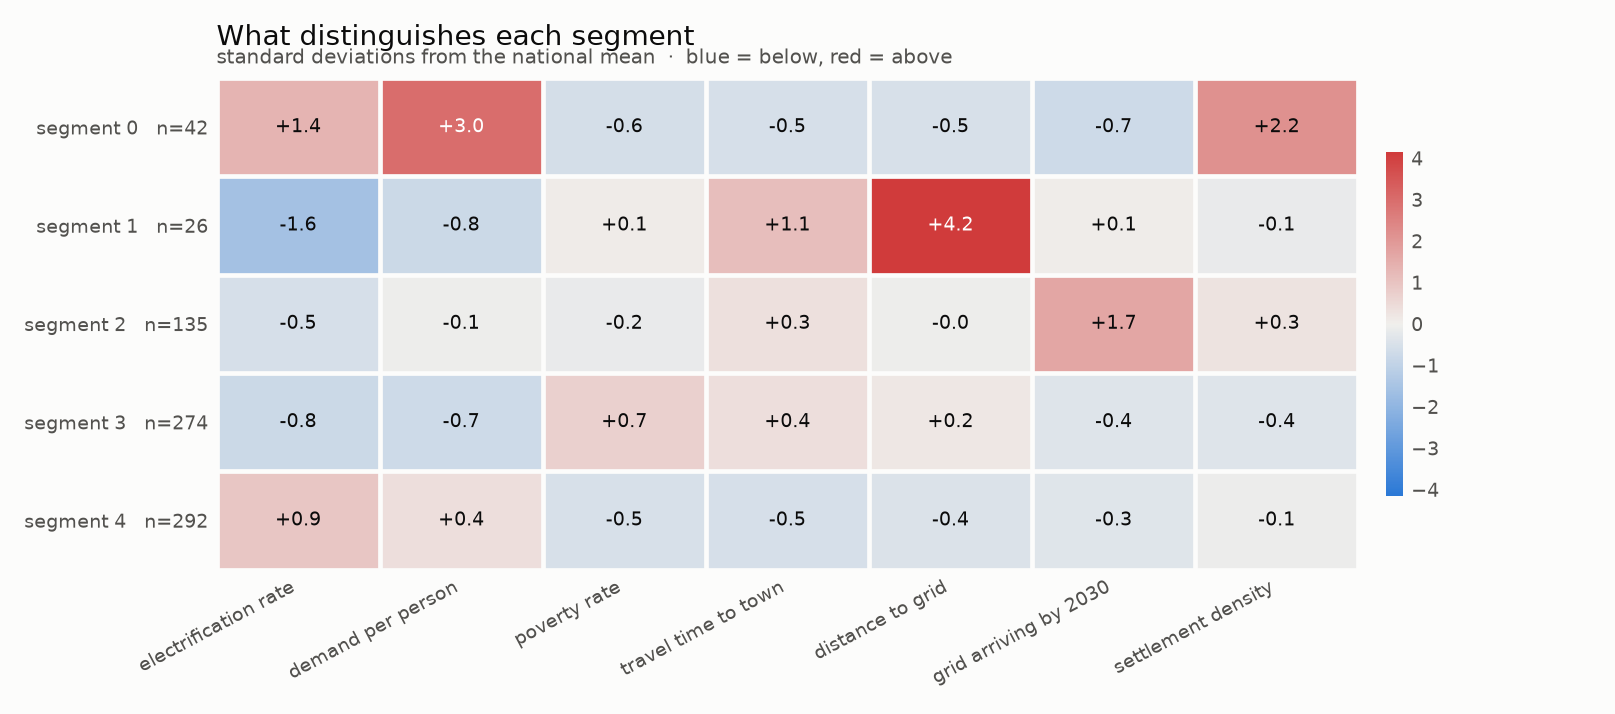
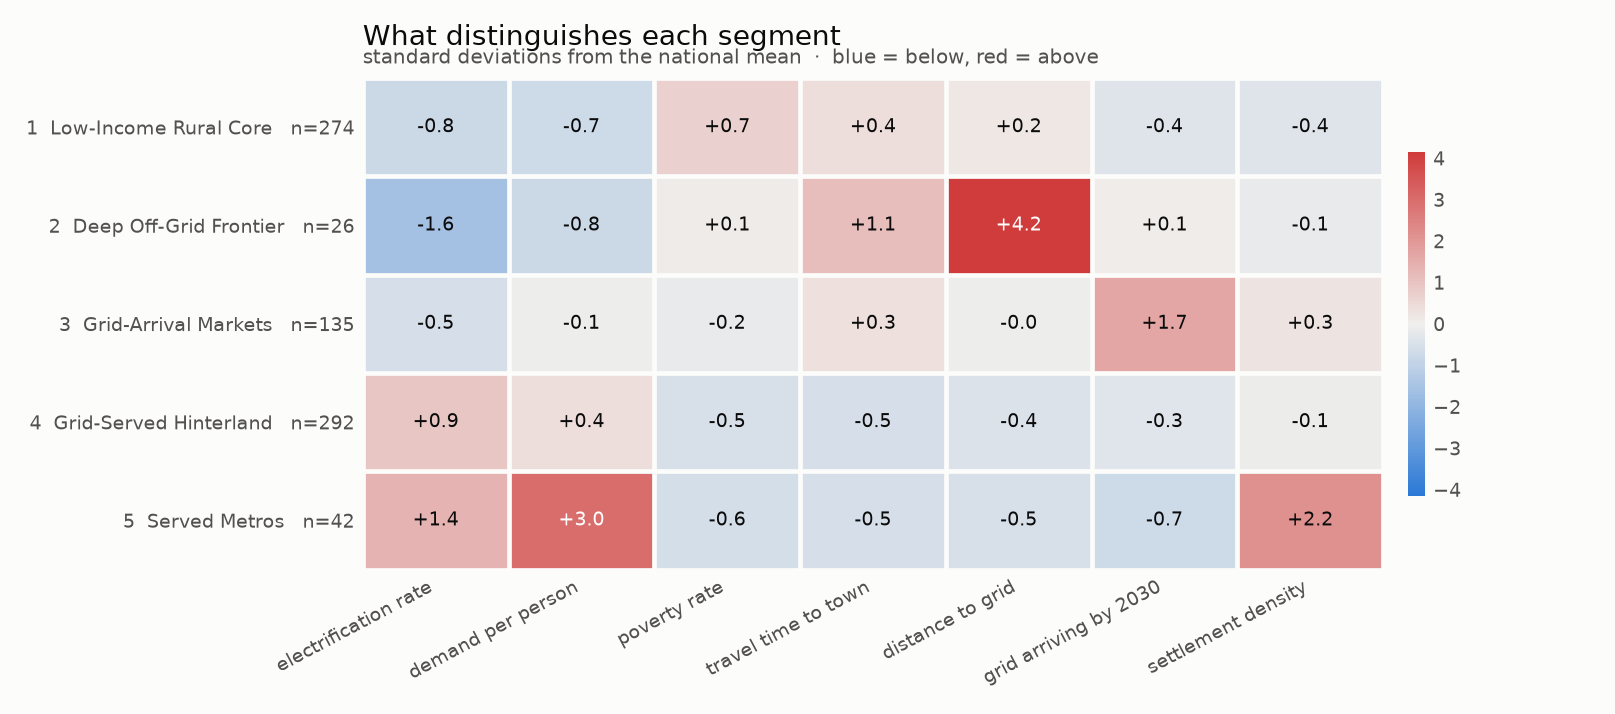
Figures read segment names from the lookup table
visualise.py now reads lga_segments_named instead of lga_segments, taking both segment_name and display_order from segment_names. No segment name and no display ordering appears anywhere in the Python; renaming a segment is a one-row change in one table followed by a re-run.

Guards added: fails with an explicit instruction if the view is missing, and refuses to draw anything if any LGA comes back unnamed rather than silently dropping it from every figure. Silhouette is still computed on seg_kmeans, not display_order, so renumbering cannot touch the geometry.

Regression check: 41 of 769 LGAs (5.3%) negative silhouette, identical to the pre-renaming run. 769 of 774 polygons matched; the 5 unmatched are the 4 no_clusters plus 1 no_cod_pop LGAs from 04_gep_quality.sql.

diff --git a/pipeline/visualise.py b/pipeline/visualise.py
@@ -4,7 +4,8 @@ Stage 2 visuals: what the five segments look like.
 Run from the project root, after pipeline/cluster.py:
     python pipeline/visualise.py
 
-Reads  : lga_segments, cluster_features, data/raw/nga_admin2.shp
+Reads  : lga_segments_named (the view built by sql/09_segment_names.sql),
+         cluster_features, data/raw/nga_admin2.shp
 Writes : reports/segment_fingerprint.png
          reports/segment_map.png
          reports/segment_scale.png
@@ -40,6 +41,20 @@ a hue there would read as a value rather than as "average".
 
 Magnitude charts use one blue ramp. No chart here encodes identity by colour
 alone; every segment is labelled.
+
+
+NUMBERING
+---------
+Nothing in this file knows what a segment is called, and nothing in it decides
+what order they come in. Both are read from `segment_names` through the
+`lga_segments_named` view, which sql/09_segment_names.sql builds. The raw
+scikit-learn labels (seg_kmeans 0-4) never appear on a figure -- they are an
+accident of centroid initialisation and mean nothing to a reader.
+
+That is the whole point of the lookup table: if a name changes, it changes in
+one row of one table, and every figure here follows on the next run. If you
+find yourself typing a segment name into this file, stop -- the table is the
+place.
 """
 
 import sqlite3
@@ -87,20 +102,48 @@ def load() -> pd.DataFrame:
     con = sqlite3.connect(DB)
     try:
         df = pd.read_sql("""
-            SELECT s.lga_pcode, s.lga_name, s.state_name, s.seg_kmeans, s.gep_flag,
+            SELECT n.lga_pcode, n.lga_name, n.state_name, n.gep_flag,
+                   n.seg_kmeans,          -- carried for traceability, never plotted
+                   n.display_order, n.segment_name, n.is_offgrid_market,
                    f.elec_rate_2020, f.demand_kwh_per_capita, f.poverty_rate,
                    f.travel_hours, f.mv_line_dist_km, f.pct_grid_new_2030,
                    f.settled_density, f.unserved_pop_2020, f.gep_pop_2020
-            FROM lga_segments s
-            JOIN cluster_features f ON f.lga_pcode = s.lga_pcode
+            FROM lga_segments_named n
+            JOIN cluster_features f ON f.lga_pcode = n.lga_pcode
         """, con)
     except Exception as exc:
-        sys.exit(f"Could not read lga_segments / cluster_features: {exc}\n"
-                 f"Run pipeline/cluster.py first.")
+        sys.exit(f"Could not read lga_segments_named / cluster_features: {exc}\n"
+                 f"\nIf the view is missing, the naming layer has not been built.\n"
+                 f"Open sql/09_segment_names.sql in DB Browser, Execute All,\n"
+                 f"then WRITE CHANGES -- the last step is the one that persists it.")
     finally:
         con.close()
-    print(f"Loaded {len(df)} LGAs in {df.seg_kmeans.nunique()} segments.")
+
+    # Every LGA must have been named. A silent left-join hole here would
+    # quietly drop LGAs from every figure, so refuse to draw anything.
+    missing = df["segment_name"].isna().sum()
+    if missing:
+        sys.exit(f"{missing} LGAs have no segment name. Re-run "
+                 f"sql/09_segment_names.sql.")
+
+    print(f"Loaded {len(df)} LGAs in {df.display_order.nunique()} segments.")
+    print("Naming read from segment_names (cluster label -> display order):")
+    for _, r in (df.drop_duplicates("display_order")
+                   .sort_values("display_order").iterrows()):
+        mark = "off-grid market" if r.is_offgrid_market else ""
+        print(f"  seg_kmeans {r.seg_kmeans}  ->  {int(r.display_order)}  "
+              f"{r.segment_name:<24} {mark}")
     return df
+
+
+def seg_labels(df) -> tuple[list, dict, dict]:
+    """display orders 1..k, and the name / off-grid flag for each."""
+    u = df.drop_duplicates("display_order").sort_values("display_order")
+    orders = [int(o) for o in u["display_order"]]
+    names = {int(r.display_order): r.segment_name for _, r in u.iterrows()}
+    offgrid = {int(r.display_order): bool(r.is_offgrid_market)
+               for _, r in u.iterrows()}
+    return orders, names, offgrid
 
 
 def style(ax, title="", sub=""):
@@ -126,8 +169,10 @@ def fingerprint(df, plt):
     below average on each feature? Raw means cannot answer that -- 708 kWh
     and 0.22 are not comparable numbers until they are standardised.
     """
-    z = (df.groupby("seg_kmeans")[FEATURES].mean() - df[FEATURES].mean()) / df[FEATURES].std()
-    z = z[FEATURES]
+    orders, names, _ = seg_labels(df)
+    z = ((df.groupby("display_order")[FEATURES].mean() - df[FEATURES].mean())
+         / df[FEATURES].std())
+    z = z.loc[orders, FEATURES]   # row 0 is display order 1, at the top
 
     fig, ax = plt.subplots(figsize=(9.5, 4.2), facecolor=SURFACE)
     lim = float(np.abs(z.values).max())
@@ -138,7 +183,9 @@ def fingerprint(df, plt):
     ax.set_xticks(range(len(FEATURES)))
     ax.set_xticklabels([NICE[f] for f in FEATURES], rotation=28, ha="right")
     ax.set_yticks(range(len(z)))
-    ax.set_yticklabels([f"segment {i}   n={(df.seg_kmeans == i).sum()}" for i in z.index])
+    ax.set_yticklabels(
+        [f"{o}  {names[o]}   n={(df.display_order == o).sum()}" for o in z.index],
+        fontsize=8.5)
 
     # Direct labels: identity is never colour alone.
     for i in range(z.shape[0]):
@@ -179,24 +226,27 @@ def maps(df, plt):
     gdf = gpd.read_file(SHP)
     pcode_col = next(c for c in gdf.columns
                      if "2" in c and "code" in c.lower().replace("_", ""))
-    gdf = gdf.merge(df[["lga_pcode", "seg_kmeans"]],
+    gdf = gdf.merge(df[["lga_pcode", "display_order"]],
                     left_on=pcode_col, right_on="lga_pcode", how="left")
-    matched = gdf["seg_kmeans"].notna().sum()
+    matched = gdf["display_order"].notna().sum()
     print(f"  map: {matched} of {len(gdf)} polygons matched a segment "
           f"({len(gdf) - matched} unmatched -- the LGAs with no clusters)")
 
-    segs = sorted(df.seg_kmeans.unique())
-    fig, axes = plt.subplots(1, len(segs), figsize=(3.1 * len(segs), 4.0),
+    orders, names, offgrid = seg_labels(df)
+    fig, axes = plt.subplots(1, len(orders), figsize=(3.1 * len(orders), 4.2),
                              facecolor=SURFACE)
-    for ax, s in zip(np.atleast_1d(axes), segs):
+    for ax, o in zip(np.atleast_1d(axes), orders):
         gdf.plot(ax=ax, color=MUTED, edgecolor=SURFACE, linewidth=0.12)
-        sub = gdf[gdf["seg_kmeans"] == s]
+        sub = gdf[gdf["display_order"] == o]
         sub.plot(ax=ax, color=BLUE, edgecolor=SURFACE, linewidth=0.12)
         n = len(sub)
-        pop = df.loc[df.seg_kmeans == s, "unserved_pop_2020"].sum() / 1e6
-        ax.set_title(f"segment {s}", color=INK, fontsize=11, loc="left")
-        ax.text(0, -0.04, f"{n} LGAs  ·  {pop:.1f}M unserved",
+        pop = df.loc[df.display_order == o, "unserved_pop_2020"].sum() / 1e6
+        ax.set_title(f"{o}  {names[o]}", color=INK, fontsize=10, loc="left")
+        ax.text(0, -0.03, f"{n} LGAs  ·  {pop:.1f}M unserved",
                 transform=ax.transAxes, color=INK_2, fontsize=8.5, va="top")
+        if offgrid[o]:
+            ax.text(0, -0.09, "off-grid market", transform=ax.transAxes,
+                    color=BLUE, fontsize=8.5, va="top", weight="bold")
         ax.set_axis_off()
     fig.suptitle("Where each segment is", color=INK, fontsize=13, x=0.01,
                  ha="left", y=0.99)
@@ -211,15 +261,21 @@ def maps(df, plt):
 # ----------------------------------------------------------------------
 
 def scale(df, plt):
-    g = (df.groupby("seg_kmeans")
+    _, names, _ = seg_labels(df)
+    # Sorted by magnitude, not by display order: this chart's job is size.
+    # Showing the display number alongside lets the reader see how the two
+    # orderings differ -- segment 2 is second in priority and fourth in size,
+    # which is the argument of the whole deliverable in one glance.
+    g = (df.groupby("display_order")
            .agg(lgas=("lga_pcode", "size"),
                 unserved=("unserved_pop_2020", "sum"))
            .sort_values("unserved"))
-    fig, ax = plt.subplots(figsize=(8, 3.4), facecolor=SURFACE)
+    fig, ax = plt.subplots(figsize=(8.4, 3.4), facecolor=SURFACE)
     y = np.arange(len(g))
     ax.barh(y, g["unserved"] / 1e6, height=0.62, color=BLUE_RAMP[4])
     ax.set_yticks(y)
-    ax.set_yticklabels([f"segment {i}" for i in g.index])
+    ax.set_yticklabels([f"{int(o)}  {names[int(o)]}" for o in g.index],
+                       fontsize=8.5)
     for i, (v, n) in enumerate(zip(g["unserved"] / 1e6, g["lgas"])):
         ax.text(v + 0.6, i, f"{v:.1f}M   ({n} LGAs)", va="center",
                 fontsize=9, color=INK_2)
@@ -259,17 +315,20 @@ def silhouette(df, plt):
     for col in ["travel_hours", "settled_density"]:
         X[col] = np.log1p(X[col])
     Xs = StandardScaler().fit_transform(X)
+    # Silhouette is computed on the CLUSTER labels, not the display order --
+    # renumbering is cosmetic and must not touch the geometry. Grouping for
+    # the figure then uses display order.
     vals = silhouette_samples(Xs, df["seg_kmeans"].values)
 
-    fig, ax = plt.subplots(figsize=(8, 4.4), facecolor=SURFACE)
-    segs = sorted(df.seg_kmeans.unique())
+    fig, ax = plt.subplots(figsize=(8.4, 4.4), facecolor=SURFACE)
+    orders, names, _ = seg_labels(df)
     lo, labels = 0, []
     # Reversed, because matplotlib's y axis grows upward: this puts
-    # segment 0 at the TOP, matching the reading order of every other figure.
-    for s in reversed(segs):
-        v = np.sort(vals[df.seg_kmeans.values == s])
+    # display order 1 at the TOP, matching every other figure.
+    for o in reversed(orders):
+        v = np.sort(vals[df.display_order.values == o])
         ax.barh(np.arange(lo, lo + len(v)), v, height=1.0, color=BLUE_RAMP[4])
-        labels.append((lo + len(v) / 2, f"segment {s}"))
+        labels.append((lo + len(v) / 2, f"{o}  {names[o]}"))
         lo += len(v) + 14
 
     lo_x = min(-0.02, float(vals.min()) - 0.03)
@@ -278,7 +337,7 @@ def silhouette(df, plt):
     # Segment names as y-tick labels, so matplotlib places them OUTSIDE the
     # axes. Drawing them inside with ax.text put them on top of the bars.
     ax.set_yticks([y for y, _ in labels])
-    ax.set_yticklabels([t for _, t in labels])
+    ax.set_yticklabels([t for _, t in labels], fontsize=8.5)
 
     mean = vals.mean()
     ax.axvline(mean, color=RED, linewidth=2, linestyle="--")
